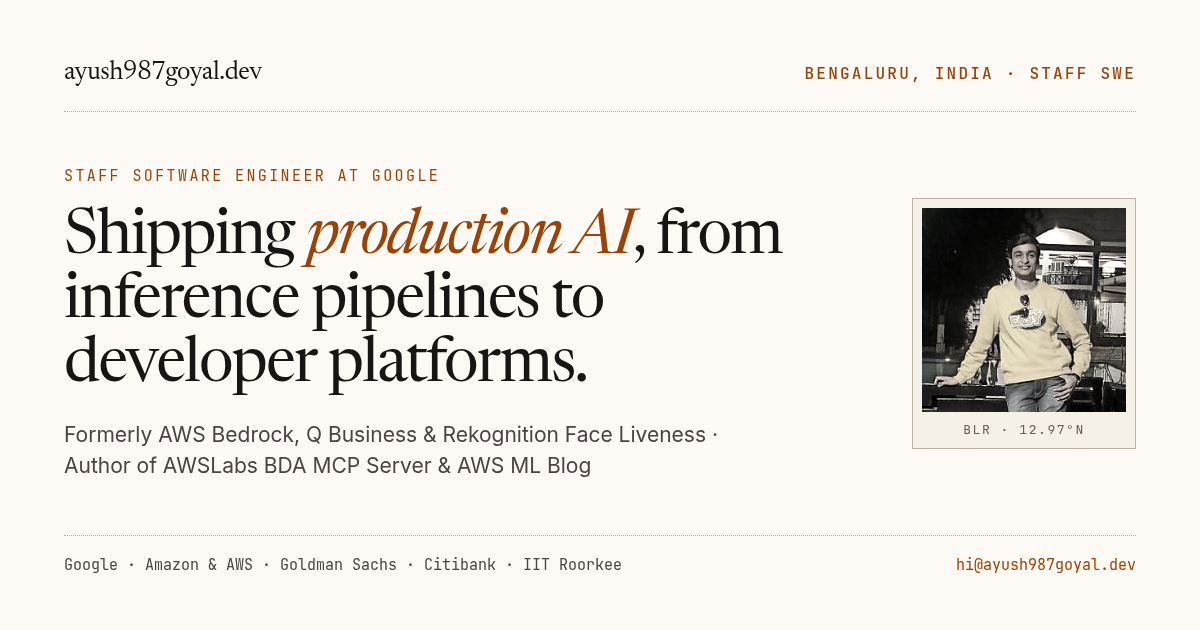
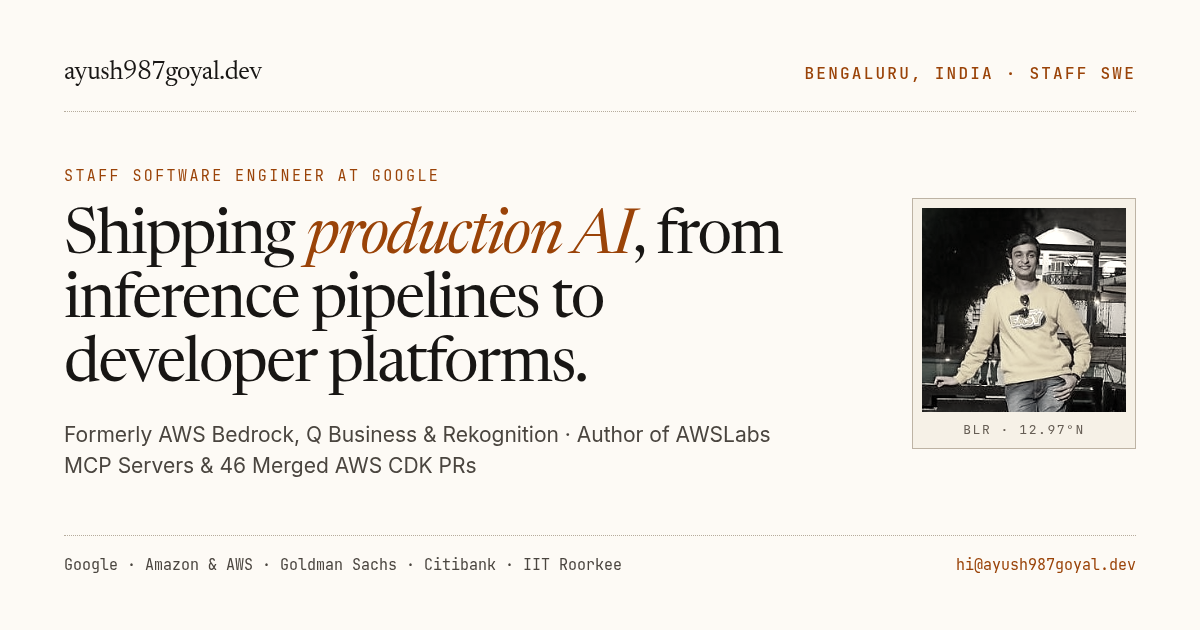
Highlight both AWSLabs MCP servers, 46 AWS CDK PRs, and 92 merged upstream OSS PRs

Changed region(s): [[0.0308, 0.6635, 0.6475, 0.754]]

diff --git a/src/data/profile.ts b/src/data/profile.ts
@@ -29,9 +29,15 @@ export interface FeaturedOssItem {
   titleAccent: string;
   titleTail: string;
   description: string;
-  specLine?: string;
+  specLine: string;
   links: { label: string; url: string }[];
-  hasCodeSpecimen?: boolean;
+}
+
+export interface UpstreamOssItem {
+  repo: string;
+  stats: string;
+  description: string;
+  links: { label: string; url: string }[];
 }
 
 export interface PublishedWritingItem {
@@ -52,8 +58,8 @@ export const PROFILE = {
   fallbackEmail: 'ayush987goyal@gmail.com',
   wcaId: '2014GOYA01',
   metaDescription:
-    'Ayush Goyal — Staff Software Engineer at Google. Formerly AWS Bedrock, Q Business, and Rekognition Face Liveness. Author of the AWSLabs BDA MCP server.',
-  bio: "Staff Software Engineer at Google in Bengaluru. Over 10+ years across Amazon (AWS Bedrock, Q Business, Rekognition, Pharmacy), Goldman Sachs, and Citibank, I've led 10–25 engineer teams shipping multimodal GenAI platforms, real-time ML inference pipelines, and open-source AWS developer tools.",
+    'Ayush Goyal — Staff Software Engineer at Google. Formerly AWS Bedrock, Q Business & Rekognition. Author of AWSLabs MCP servers & 46 merged AWS CDK PRs.',
+  bio: "Staff Software Engineer at Google in Bengaluru. Over 10+ years across Amazon (AWS Bedrock, Q Business, Rekognition, Pharmacy), Goldman Sachs, and Citibank, I've served as cross-team technical lead across 10–25 engineers shipping multimodal GenAI platforms, real-time ML inference pipelines, two official AWSLabs MCP servers, and 46 merged AWS CDK PRs.",
   links: {
     github: 'https://github.com/ayush987goyal',
     linkedin: 'https://www.linkedin.com/in/ayush987goyal/',
@@ -61,6 +67,9 @@ export const PROFILE = {
     awsMlBlog:
       'https://aws.amazon.com/blogs/machine-learning/whiteboard-to-cloud-in-minutes-using-amazon-q-amazon-bedrock-data-automation-and-model-context-protocol/',
     awsMcpPyPi: 'https://pypi.org/project/awslabs.aws-bedrock-data-automation-mcp-server/',
+    awsRekognitionMcpPyPi: 'https://pypi.org/project/awslabs.amazon-rekognition-mcp-server/',
+    awsMcpPrs: 'https://github.com/awslabs/mcp/pulls?q=is%3Apr+author%3Aayush987goyal+is%3Amerged',
+    awsCdkPrs: 'https://github.com/aws/aws-cdk/pulls?q=is%3Apr+author%3Aayush987goyal+is%3Amerged',
   },
 } as const;
 
@@ -84,7 +93,7 @@ export const AMAZON_TENURE = {
       period: '2024 – 2025',
       metric: 'Extraction F1 0.37 → 0.71 · 3 LLM families',
       summary:
-        'Drove the GA launch transforming unstructured documents, images, audio, and video into structured insights; built the console, blueprint optimization, and prompt evaluation framework across 3 LLM families (including Claude and Amazon Nova), lifting extraction accuracy (F1) from 0.37 → 0.71. Authored the official AWSLabs MCP server (8+ API ops, 6+ industry use cases) and published the AWS Machine Learning Blog walkthrough.',
+        'Drove the GA launch transforming unstructured documents, images, audio, and video into structured insights; built the console, blueprint optimization, and prompt evaluation framework across 3 LLM families (including Claude and Amazon Nova), lifting extraction accuracy (F1) from 0.37 → 0.71. Authored official AWSLabs MCP servers for Bedrock & Rekognition and published the AWS ML Blog walkthrough.',
     },
     {
       product: 'Amazon Q Business Custom Plugins',
@@ -139,35 +148,47 @@ export const EARLY_FOUNDATIONS: FoundationItem[] = [
 
 export const FEATURED_OSS: FeaturedOssItem[] = [
   {
-    eyebrow: 'AWS ML Blog · Aug 2025',
-    title: 'Bedrock Data Automation',
-    titleAccent: 'MCP Server',
-    titleTail: '& AWS ML Blog',
+    eyebrow: 'AWSLabs MCP · 2 Official PyPI Servers',
+    title: 'AWSLabs',
+    titleAccent: 'MCP Servers',
+    titleTail: '— Bedrock & Rekognition',
     description:
-      'Authored the official AWSLabs Model Context Protocol (MCP) server for Amazon Bedrock Data Automation — exposing multimodal document, image, audio, and video extraction as callable agent tools — and co-authored the AWS Machine Learning Blog walkthrough with Amazon Q.',
-    specLine: 'TypeScript & Python · 8+ API operations · 6+ industry use cases',
+      'Authored two official AWSLabs Model Context Protocol (MCP) servers — exposing Amazon Bedrock Data Automation (multimodal document, image, audio, and video extraction) and Amazon Rekognition (image, face, and moderation analysis) as callable agent tools — plus the AWS ML Blog walkthrough with Amazon Q.',
+    specLine: 'awslabs/mcp #472 & #612 · Python & TypeScript · 2 official PyPI packages',
     links: [
       {
         label: 'AWS ML Blog (Aug 2025)',
         url: 'https://aws.amazon.com/blogs/machine-learning/whiteboard-to-cloud-in-minutes-using-amazon-q-amazon-bedrock-data-automation-and-model-context-protocol/',
       },
       {
-        label: 'awslabs MCP package (PyPI)',
+        label: 'Bedrock MCP (PyPI)',
         url: 'https://pypi.org/project/awslabs.aws-bedrock-data-automation-mcp-server/',
+      },
+      {
+        label: 'Rekognition MCP (PyPI)',
+        url: 'https://pypi.org/project/awslabs.amazon-rekognition-mcp-server/',
+      },
+      {
+        label: 'awslabs/mcp PRs',
+        url: 'https://github.com/awslabs/mcp/pulls?q=is%3Apr+author%3Aayush987goyal+is%3Amerged',
       },
     ],
   },
   {
-    eyebrow: 'AWS DevOps Blog · Feb 2021',
+    eyebrow: 'AWS CDK · 46 Merged PRs',
     title: 'AWS CDK',
-    titleAccent: 'EcsRunTask',
+    titleAccent: 'Core Contributor',
     titleTail: '& Construct Hub',
     description:
-      'Authored aws/aws-cdk PR #12436 adding task-definition family & revision support to StepFunctions EcsRunTask — highlighted in the AWS DevOps Blog (CDK Corner) — contributed to cdklabs/cdk-monitoring-constructs, and published TypeScript constructs on Construct Hub.',
-    hasCodeSpecimen: true,
+      'Shipped 46 merged PRs to aws/aws-cdk — including Lambda Function URLs (#19817), API Gateway v2 WebSocket APIs (#13031), CloudFront Response Headers Policy (#17359), Route 53 Cross-Account DNS Delegations (#12680), and StepFunctions CallApiGateway (#13033) — plus AWS DevOps Blog recognition and published TypeScript constructs.',
+    specLine: '46 merged aws/aws-cdk PRs · Lambda, API Gateway, CloudFront & Route 53',
     links: [
       {
-        label: 'AWS DevOps Blog (Feb 2021)',
+        label: '46 Merged CDK PRs',
+        url: 'https://github.com/aws/aws-cdk/pulls?q=is%3Apr+author%3Aayush987goyal+is%3Amerged',
+      },
+      {
+        label: 'AWS DevOps Blog',
         url: 'https://aws.amazon.com/blogs/devops/cdk-corner-february-2021/',
       },
       {
@@ -178,9 +199,48 @@ export const FEATURED_OSS: FeaturedOssItem[] = [
         label: 'umami-analytics-construct',
         url: 'https://constructs.dev/packages/umami-analytics-construct',
       },
+    ],
+  },
+];
+
+export const UPSTREAM_OSS: UpstreamOssItem[] = [
+  {
+    repo: 'aws-amplify/amplify-ui',
+    stats: '11 merged PRs',
+    description:
+      'Face Liveness React SDK (@aws-amplify/ui-react-liveness) camera/streaming updates and shared UI hooks (useControllable, useThemeBreakpoint).',
+    links: [
       {
-        label: 'cdk-monitoring-constructs',
-        url: 'https://github.com/cdklabs/cdk-monitoring-constructs',
+        label: 'PRs',
+        url: 'https://github.com/aws-amplify/amplify-ui/pulls?q=is%3Apr+author%3Aayush987goyal+is%3Amerged',
+      },
+    ],
+  },
+  {
+    repo: 'streamich/react-use',
+    stats: '7 merged PRs · ★44k',
+    description:
+      'Authored useCookie, useMethods, useError, and custom serializer/deserializer support for useLocalStorage.',
+    links: [
+      {
+        label: 'PRs',
+        url: 'https://github.com/streamich/react-use/pulls?q=is%3Apr+author%3Aayush987goyal+is%3Amerged',
+      },
+    ],
+  },
+  {
+    repo: 'cdklabs & vuejs/core',
+    stats: '9 PRs · ★55k',
+    description:
+      'Authored CDK Aspects scope monitoring in cdk-monitoring-constructs (#34) and compiler/runtime optimizations in Vue 3 core.',
+    links: [
+      {
+        label: 'CDK',
+        url: 'https://github.com/cdklabs/cdk-monitoring-constructs/pulls?q=is%3Apr+author%3Aayush987goyal+is%3Amerged',
+      },
+      {
+        label: 'Vue',
+        url: 'https://github.com/vuejs/core/pulls?q=is%3Apr+author%3Aayush987goyal+is%3Amerged',
       },
     ],
   },
